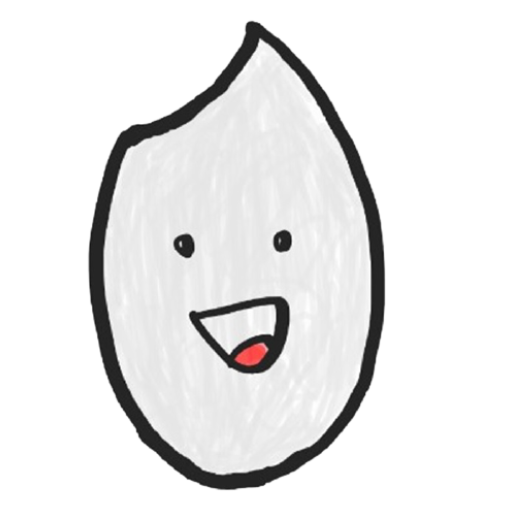
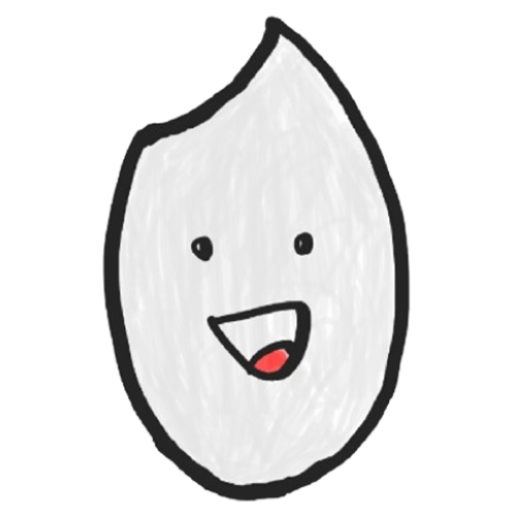
UI 다듬기
1. 좌우 대칭 아이콘 변경
2. 모든 리사이클러 뷰 상하좌우 간격 조절
3. 로그인 화면에 아이콘 및 타이틀 추가
4. 메인 프래그먼트에 아이콘 및 타이틀 추가
5. recoboard 사진 배경 색 변경, 텍스트 간격 조절 등

diff --git a/src/main/java/com/example/test3/RegisterFragment.java b/src/main/java/com/example/test3/RegisterFragment.java
@@ -11,6 +11,7 @@ import android.view.View;
 import android.view.ViewGroup;
 import android.widget.Button;
 import android.widget.EditText;
+import android.widget.ImageButton;
 import android.widget.RadioButton;
 import android.widget.RadioGroup;
 import android.widget.Toast;
@@ -51,7 +52,7 @@ public class RegisterFragment extends Fragment {
     RadioButton registerMale;
     RadioButton registerFemale;
 
-
+    ImageButton registerBack;
     EditText registerVerifyCode;
     Button registerVerifyCheckButton;
 
@@ -154,6 +155,20 @@ public class RegisterFragment extends Fragment {
             }
         });
 
+
+
+        // registerBack
+        registerBack = binding.registerBack;
+        registerBack.setOnClickListener(new View.OnClickListener() {
+            @Override
+            public void onClick(View v) {
+                changeRegisterEnabled(true);
+                changeRegisterVisibility(View.VISIBLE);
+
+                changeVerifyEnabled(false);
+                changeVerifyVisibility(View.GONE);
+            }
+        });
 
         // registerVerifyCode
         registerVerifyCode = binding.registerVerifyCode;
@@ -452,11 +467,13 @@ public class RegisterFragment extends Fragment {
 
 
     public void changeVerifyEnabled(boolean b) {
+        registerBack.setEnabled(b);
         registerVerifyCode.setEnabled(b);
         registerVerifyCheckButton.setEnabled(b);
     }
 
     public void changeVerifyVisibility(int i) {
+        registerBack.setVisibility(i);
         registerVerifyCode.setVisibility(i);
         registerVerifyCheckButton.setVisibility(i);
     }

diff --git a/src/main/java/com/example/test3/MainFragment.java b/src/main/java/com/example/test3/MainFragment.java
@@ -122,7 +122,7 @@ public class MainFragment extends Fragment {
         // mainTitle
         mainTitle = binding.mainTitle;
         // TODO: 아마 userName 받아오기 전에 길이를 계산해버려서 0, 0으로 처리되는듯?
-        SpannableStringBuilder sp = new SpannableStringBuilder(MainActivity.userName + "님을 위한\n오늘의 추천 음식!");
+        SpannableStringBuilder sp = new SpannableStringBuilder(MainActivity.userName + "님을 위한  \n오늘의 추천 음식!  ");
         sp.setSpan(new StyleSpan(Typeface.BOLD), 0, MainActivity.userName.length(), Spannable.SPAN_EXCLUSIVE_EXCLUSIVE);
         mainTitle.setText(sp);
 
@@ -164,7 +164,7 @@ public class MainFragment extends Fragment {
                                             }
 
                                             MainActivity.modifyComplete = false;
-                                            mainTitle.setText("오늘 " + MainActivity.userName + "님의 추천 음식 순위!");
+                                            mainTitle.setText(MainActivity.userName + "님을 위한  \n오늘의 추천 음식!  ");
 
                                             dialog.dismiss();
                                         }

diff --git a/src/main/java/com/example/test3/RecoboardRecyclerAdapter.java b/src/main/java/com/example/test3/RecoboardRecyclerAdapter.java
@@ -156,8 +156,8 @@ public class RecoboardRecyclerAdapter extends RecyclerView.Adapter<RecyclerView.
                 @Override
                 public void run() {
                     Glide.with(parentFragment.getActivity()).load(data.getImage())
-                            .placeholder(R.drawable.placeholder)
-                            .error(R.drawable.error_background)
+                            .placeholder(R.mipmap.ic_main)
+                            .error(R.mipmap.ic_main)
                             .into(recoboardImage);
 
                     recoboardUserName.setText(data.getName());

diff --git a/src/main/java/com/example/test3/RecoboardFragment.java b/src/main/java/com/example/test3/RecoboardFragment.java
@@ -52,7 +52,7 @@ public class RecoboardFragment extends Fragment {
         recoAdapter = new RecoboardRecyclerAdapter(this);
         recoRecyclerView.setAdapter(recoAdapter);
 
-        recoRecyclerView.addItemDecoration(new RecyclerViewDecoration(0, 30));
+        recoRecyclerView.addItemDecoration(new RecyclerViewDecoration(10, 10));
 
         // Amplify로부터 게시글을 받아옴
         AmplifyApi.RecommendBoardGet(recoAdapter, getActivity(), 0, null, null, null, false);

diff --git a/src/main/java/com/example/test3/BoardFragment.java b/src/main/java/com/example/test3/BoardFragment.java
@@ -62,7 +62,7 @@ public class BoardFragment extends Fragment {
         adapter = new BoardRecyclerAdapter(this);
         recyclerView.setAdapter(adapter);
 
-        recyclerView.addItemDecoration(new RecyclerViewDecoration(0, 30));
+        recyclerView.addItemDecoration(new RecyclerViewDecoration(0, 15));
 
 
         // Amplify로부터 게시글을 받아옴

diff --git a/src/main/java/com/example/test3/MainActivity.java b/src/main/java/com/example/test3/MainActivity.java
@@ -121,7 +121,7 @@ public class MainActivity extends AppCompatActivity {
                         setFrag(0);
                         break;
                     case R.id.board:
-                        setFrag(1);
+                        setFrag(3);
                         break;
                 }
 
